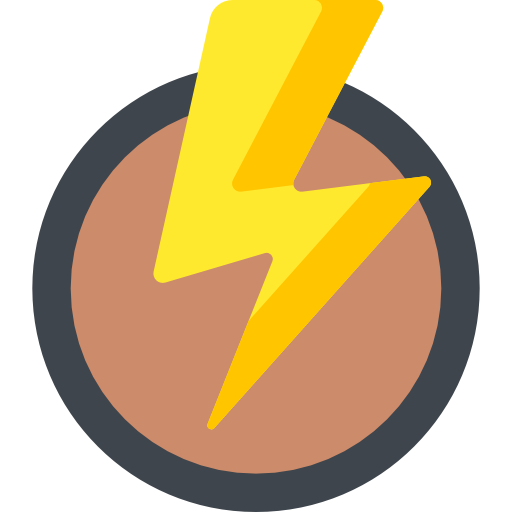
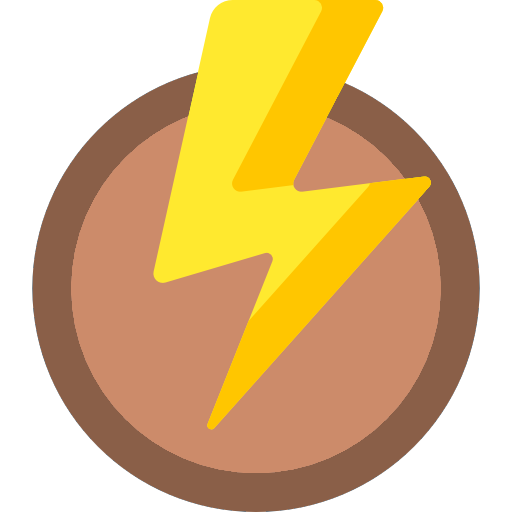
JavaScript file restructuration, badge page improved, and improved badge images

Changed region(s): [[0.0625, 0.125, 0.9375, 1.0]]

diff --git a/badges.html b/badges.html
@@ -16,6 +16,7 @@
     </script>
     <script src='includes/materialize/materialize.js'></script>
     <script src='js/main.js'></script>
+    <script src='js/badges.js'></script>
 </head>
 
 <body>
@@ -80,43 +81,25 @@
 
         <div class='row'>
             <div class='col s12'>
-                <div class='card grey lighten-5 center-align round-all-corners z-depth-2'>
-
-
-                    <div class='no-margin-bot' id='all-badges'>
-                        <a class='tooltipped-badge-page modal-trigger' href='#badge-modal' data-tooltip='Insignia de actividad conclusa'>
-                            <img class='big-badge' src='img/badge-submit.png'>
-                        </a>
-                        <a class='tooltipped-badge-page modal-trigger' href='#badge-modal' data-tooltip='Entrega la actividad a tiempo'>
-                            <img class='big-badge' src='img/badge-early.png'>
-                        </a>
-                        <a class='tooltipped-badge-page modal-trigger' href='#badge-modal' data-tooltip='Entrega la actividad a tiempo'>
-                            <img class='big-badge' src='img/badge-good.png'>
-                        </a>
-                        <a class='tooltipped-badge-page modal-trigger' href='#badge-modal' data-tooltip='Entrega la actividad a tiempo'>
-                            <img class='big-badge' src='img/badge-excelent.png'>
-                        </a>
-                        <a class='tooltipped-badge-page modal-trigger' href='#badge-modal' data-tooltip='Entrega la actividad a tiempo'>
-                            <img class='big-badge' src='img/badge-finish.png'>
-                        </a>
-                    </div>
-                    <div class='row no-margin-bot' id='time-badges'>
-                        <a class='tooltipped-badge-page modal-trigger' href='#badge-modal' data-tooltip='Entrega la actividad a tiempo'>
-                            <img class='big-badge' src='img/badge-submit.png'>
-                        </a>
-                        <a class='tooltipped-badge-page modal-trigger' href='#badge-modal' data-tooltip='Entrega la actividad a tiempo'>
-                            <img class='big-badge' src='img/badge-early.png'>
-                        </a>
-                    </div>
-                    <div class='row no-margin-bot' id='submission-badges'>
-                        <a class='tooltipped-badge-page modal-trigger' href='#badge-modal' data-tooltip='Entrega la actividad a tiempo'>
-                            <img class='big-badge' src='img/badge-good.png'>
-                        </a>
-                        <a class='tooltipped-badge-page modal-trigger' href='#badge-modal' data-tooltip='Entrega la actividad a tiempo'>
-                            <img class='big-badge' src='img/badge-excelent.png'>
-                        </a>
-                    </div>
-
+                <div class='card grey lighten-5 center-align round-all-corners z-depth-2 padding-2'>
+                    <a class='tooltipped modal-trigger' href='#badge-modal' data-tooltip='Insignia de actividad finalizada a tiempo'>
+                        <img class='big-badge' src='img/badge-submit.png'>
+                    </a>
+                    <a class='tooltipped modal-trigger' href='#badge-modal' data-tooltip='Insignia de entrega temprana'>
+                        <img class='big-badge' src='img/badge-early.png'>
+                    </a>
+                    <a class='tooltipped modal-trigger' href='#badge-modal' data-tooltip='Insignia de resultado buena'>
+                        <img class='big-badge' src='img/badge-good.png'>
+                    </a>
+                    <a class='tooltipped modal-trigger' href='#badge-modal' data-tooltip='Insignia de resultado excelente'>
+                        <img class='big-badge' src='img/badge-excelent.png'>
+                    </a>
+                    <a class='tooltipped modal-trigger' href='#badge-modal' data-tooltip='Insignia de unidad terminada'>
+                        <img class='big-badge' src='img/badge-unit.png'>
+                    </a>
+                    <a class='tooltipped modal-trigger' href='#badge-modal' data-tooltip='Insignia de curso terminado'>
+                        <img class='big-badge' src='img/badge-finish.png'>
+                    </a>
                 </div>
             </div>
         </div>

diff --git a/activity.html b/activity.html
@@ -16,6 +16,7 @@
     </script>
     <script src='includes/materialize/materialize.js'></script>
     <script src='js/main.js'></script>
+    <script src='js/activity.js'></script>
 </head>
 
 <body>
@@ -150,16 +151,16 @@
                 <div class='card-panel grey lighten-5 center-align no-margin-top round-all-corners'>
                     <h5 class='card-title'>Insignias disponibles</h5>
                     <div id='badges'>
-                        <a class='tooltipped-activity-badge' data-tooltip='Entrega la actividad a tiempo'>
+                        <a class='tooltipped' data-tooltip='Entrega la actividad a tiempo'>
                             <img class='small-badge' src='img/badge-submit.png'>
                         </a>
-                        <a class='tooltipped-activity-badge' data-tooltip='Entrega la actividad al menos 24 horas antes de la fecha límite'>
+                        <a class='tooltipped' data-tooltip='Entrega la actividad al menos 24 horas antes de la fecha límite'>
                             <img class='small-badge' src='img/badge-early.png'>
                         </a>
-                        <a class='tooltipped-activity-badge' data-tooltip='Recibe una evaluación buena en tu entrega'>
+                        <a class='tooltipped' data-tooltip='Recibe una evaluación buena en tu entrega'>
                             <img class='small-badge' src='img/badge-good.png'>
                         </a>
-                        <a class='tooltipped-activity-badge' data-tooltip='Recibe una evaluación excelente en tu entrega'>
+                        <a class='tooltipped' data-tooltip='Recibe una evaluación excelente en tu entrega'>
                             <img class='small-badge' src='img/badge-excelent.png'>
                         </a>
                     </div>

diff --git a/course.html b/course.html
@@ -16,6 +16,7 @@
     </script>
     <script src='includes/materialize/materialize.js'></script>
     <script src='js/main.js'></script>
+    <script src='js/course.js'></script>
 </head>
 
 <body>
@@ -190,7 +191,7 @@
                                         <img class='round-top-corners locked-image' src='img/user.jpg'>
                                     </div>
                                     <div class='card-content cursor-not-allowed'>
-                                        <span class='card-title no-margin-bot'>Actividad 5<i class='material-icons right tooltipped-lock'
+                                        <span class='card-title no-margin-bot'>Actividad 5<i class='material-icons right tooltipped'
                                                 data-tooltip='Termina las actividades anteriores para desbloquear esta actividad'>lock_outline</i></span>
                                     </div>
                                 </div>

diff --git a/js/main.js b/js/main.js
@@ -1,34 +1,12 @@
 $(document).ready(function () {
 
     // Materialize element initialization
-
-    $('.tabs').tabs();
     $('.sidenav').sidenav();
-    $('select').formSelect();
     $('.datepicker').datepicker();
     $('.collapsible').collapsible();
-    $('.modal').modal({
-        startingTop: '4%',
-        endingTop: '17%'
-    });
     $('.dropdown-trigger').dropdown({
         hover: true,
         coverTrigger: false
-    });
-    $('.tooltipped-lock').tooltip({
-        position: 'top'
-    });
-    $('.tooltipped-badge-page').tooltip({
-        position: 'top',
-        margin: 105,
-        enterDelay: 0,
-        exitDelay: 0
-    });
-    $('.tooltipped-activity-badge').tooltip({
-        position: 'top',
-        margin: 50,
-        enterDelay: 0,
-        exitDelay: 0
     });
 
 });

diff --git a/js/index.js b/js/index.js
@@ -3,11 +3,14 @@ $(document).ready(function () {
     // Hides all login / registration cards
     $('.hide-on-load').hide();
 
-    // Materialize modal initialization override
-    $('#registration-confirmation').modal({
+    // Materialize select initialization
+    $('select').formSelect();
+
+    // Materialize modal initialization
+    $('.modal').modal({
         dismissible: false,
-        startingTop: '40%',
-        endingTop: '40%'
+        startingTop: '30%',
+        endingTop: '30%'
     });
 
 });

diff --git a/css/main.css b/css/main.css
@@ -174,8 +174,7 @@ h6 {
 
 .big-badge {
     max-width: 9em !important;
-    margin-top: 1em !important;
-    margin-bottom: 0.2em !important;
+    margin: 0.5em 0.2em !important;
     transition: all 0.14s ease-in !important;
 }
 
@@ -341,6 +340,10 @@ h6 {
 
 .no-margin-bot {
     margin-bottom: 0 !important;
+}
+
+.padding-2 {
+    padding: 2em;
 }
 
 .padding-top-03 {

diff --git a/js/badges.js b/js/badges.js
@@ -1,0 +1,17 @@
+$(document).ready(function () {
+
+    // Materialize tooltip initialization
+    $('.tooltipped').tooltip({
+        position: 'top',
+        margin: 125,
+        enterDelay: 0,
+        exitDelay: 0
+    });
+
+    // Materialize modal initialization
+    $('.modal').modal({
+        startingTop: '4%',
+        endingTop: '17%'
+    });
+
+});

diff --git a/js/activity.js b/js/activity.js
@@ -1,0 +1,11 @@
+$(document).ready(function () {
+
+    // Materialize tooltip initialization
+    $('.tooltipped').tooltip({
+        position: 'top',
+        margin: 50,
+        enterDelay: 0,
+        exitDelay: 0
+    });
+
+});

diff --git a/js/course.js b/js/course.js
@@ -1,0 +1,11 @@
+$(document).ready(function () {
+
+    // Materialize tab initialization
+    $('.tabs').tabs();
+
+    // Materialize tooltip initialization
+    $('.tooltipped').tooltip({
+        position: 'top'
+    });
+
+});
